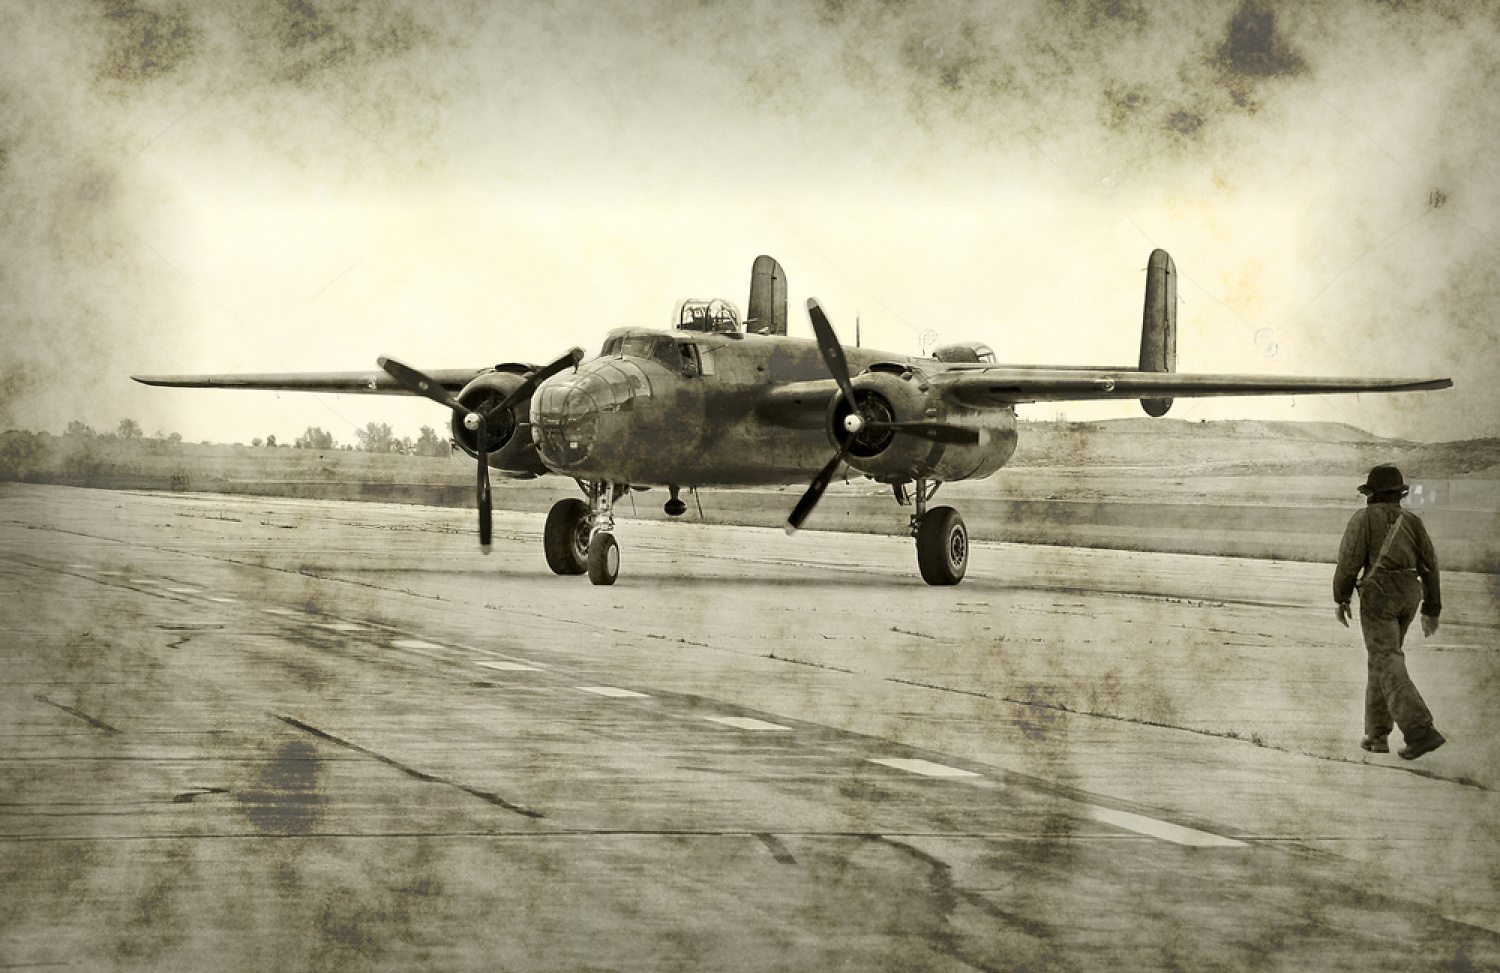
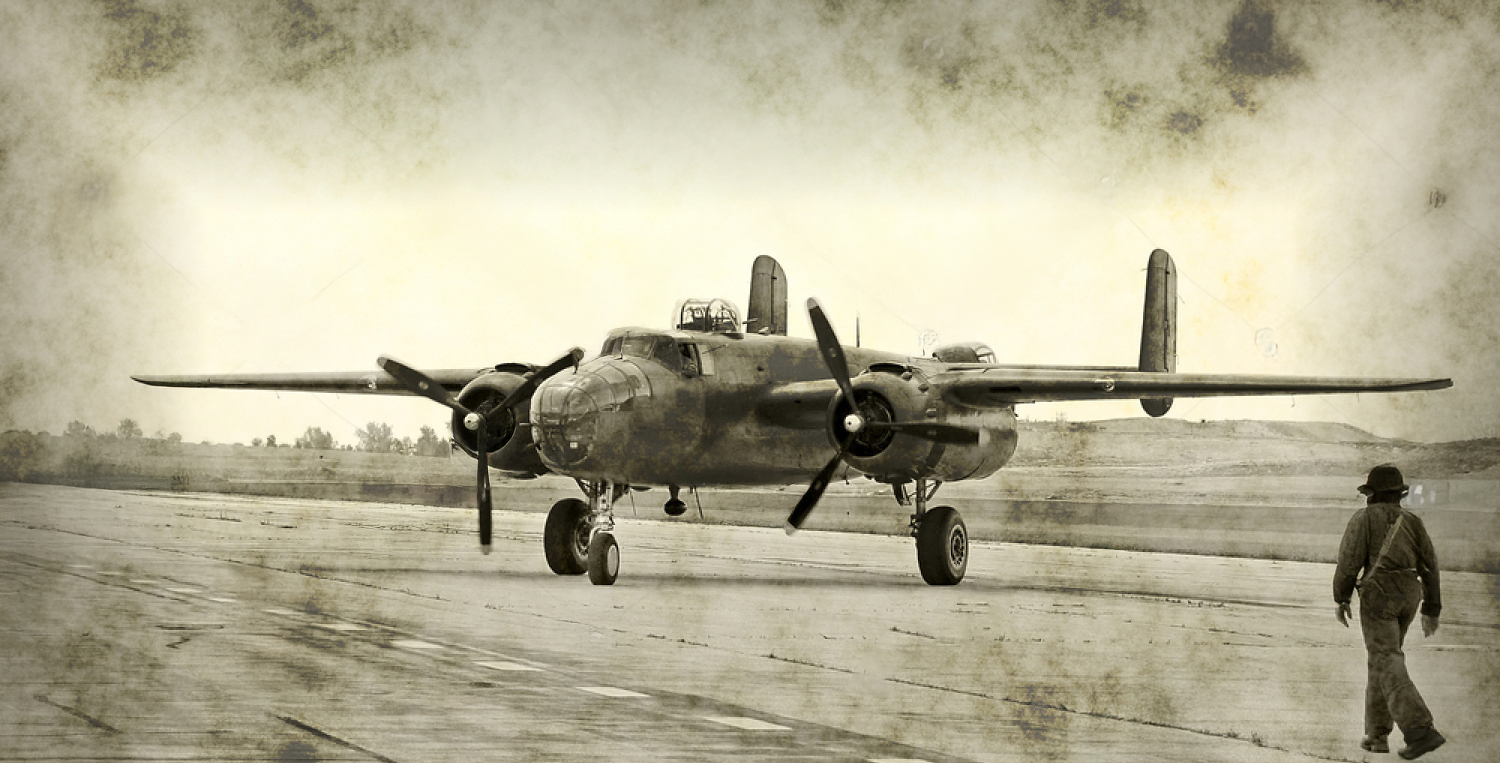
style: Update color variables and scrollbar styles for improved UI consistency

diff --git a/campaign_service_record/static/css/detail.css b/campaign_service_record/static/css/detail.css
@@ -32,14 +32,14 @@
 
 .campaign-header h2 {
     margin-bottom: 0.75rem;
-    color: var(--ink);
+    color: var(--ink-strong);
     font-size: 1.75rem;
 }
 
 .campaign-meta {
     display: flex;
     gap: 2rem;
-    color: #6b5b44;
+    color: #3b2a18;
     font-size: 0.95rem;
 }
 
@@ -50,7 +50,7 @@
 
 .meta-item .label {
     font-weight: 600;
-    color: #5a4a33;
+    color: #2f1f12;
 }
 
 /* ============================================================================
@@ -131,31 +131,31 @@
 
 .event-item {
     padding: 0.75rem;
-    border-left: 3px solid #b59e7a;
-    background: rgba(250, 244, 232, 0.7);
+    border-left: 3px solid #8f6f4a;
+    background: rgba(231, 220, 198, 0.78);
     border-radius: 4px;
     transition: all 0.2s ease;
 }
 
 .event-item:hover {
-    background: rgba(242, 231, 209, 0.9);
-    border-left-color: #8b6f4a;
+    background: rgba(219, 205, 176, 0.92);
+    border-left-color: #6f5437;
 }
 
 .event-item.promotion {
-    border-left-color: #6f8b4a;
+    border-left-color: #7b5b3a;
 }
 
 .event-item.promotion:hover {
-    background: rgba(230, 238, 215, 0.9);
+    background: rgba(216, 202, 176, 0.92);
 }
 
 .event-item.award {
-    border-left-color: #b07d2d;
+    border-left-color: #6b4b2c;
 }
 
 .event-item.award:hover {
-    background: rgba(245, 236, 214, 0.95);
+    background: rgba(214, 199, 172, 0.92);
 }
 
 .event-header {
@@ -179,7 +179,7 @@
 .event-name {
     font-weight: 600;
     font-size: 1rem;
-    color: var(--ink);
+    color: var(--ink-strong);
     margin-bottom: 0.25rem;
 }
 
@@ -270,12 +270,12 @@
 }
 
 .summary-stat .stat-label {
-    color: #5a4a33;
+    color: #2f1f12;
 }
 
 .summary-stat .stat-value {
     font-weight: 600;
-    color: var(--ink);
+    color: var(--ink-strong);
 }
 
 .summary-subtitle {
@@ -284,7 +284,7 @@
     font-weight: 700;
     text-transform: uppercase;
     letter-spacing: 0.04em;
-    color: #5a4a33;
+    color: #2f1f12;
 }
 
 /* Combat Results */
@@ -308,13 +308,13 @@
 }
 
 .summary-inline-stat .stat-label {
-    color: #5a4a33;
+    color: #2f1f12;
     font-weight: 600;
 }
 
 .summary-inline-stat .stat-value {
     font-weight: 700;
-    color: var(--ink);
+    color: var(--ink-strong);
 }
 
 .combat-results-icons {
@@ -338,7 +338,7 @@
 .combat-icon-count {
     font-size: 1.1rem;
     font-weight: 600;
-    color: var(--ink);
+    color: var(--ink-strong);
 }
 
 .combat-icon-label {
@@ -389,7 +389,7 @@
     content: "★";
     position: absolute;
     left: 0;
-    color: #b07d2d;
+    color: #3a2616;
     font-size: 1rem;
 }
 

diff --git a/campaign_service_record/static/css/main.css b/campaign_service_record/static/css/main.css
@@ -17,12 +17,15 @@
 :root {
     --ink: #2c2212;
     --ink-muted: #4a3a24;
+    --ink-strong: #1f140a;
     --paper: #f8f2e0;
     --paper-deep: #efe4cc;
     --accent: #8b6f4a;
     --accent-dark: #5a4022;
     --border: #cbb999;
     --shadow-soft: 0 6px 18px rgba(74, 52, 33, 0.18);
+    --scrollbar-thumb: #5a4022;
+    --scrollbar-track: #e8dbc3;
 }
 
 html, body {
@@ -41,6 +44,32 @@ html, body {
 
 body {
     overflow-x: hidden;
+    scrollbar-color: var(--scrollbar-thumb) var(--scrollbar-track);
+}
+
+* {
+    scrollbar-width: thin;
+    scrollbar-color: var(--scrollbar-thumb) var(--scrollbar-track);
+}
+
+*::-webkit-scrollbar {
+    width: 10px;
+    height: 10px;
+}
+
+*::-webkit-scrollbar-track {
+    background: var(--scrollbar-track);
+    border-radius: 8px;
+}
+
+*::-webkit-scrollbar-thumb {
+    background: var(--scrollbar-thumb);
+    border-radius: 8px;
+    border: 2px solid var(--scrollbar-track);
+}
+
+*::-webkit-scrollbar-thumb:hover {
+    background: #4a2f18;
 }
 
 /* ============================================================================
@@ -114,6 +143,7 @@ small {
     color: #f6edd9;
     letter-spacing: 1.2px;
     text-transform: uppercase;
+    text-shadow: 0 1px 0 rgba(25, 16, 8, 0.6);
 }
 
 #app-main {
